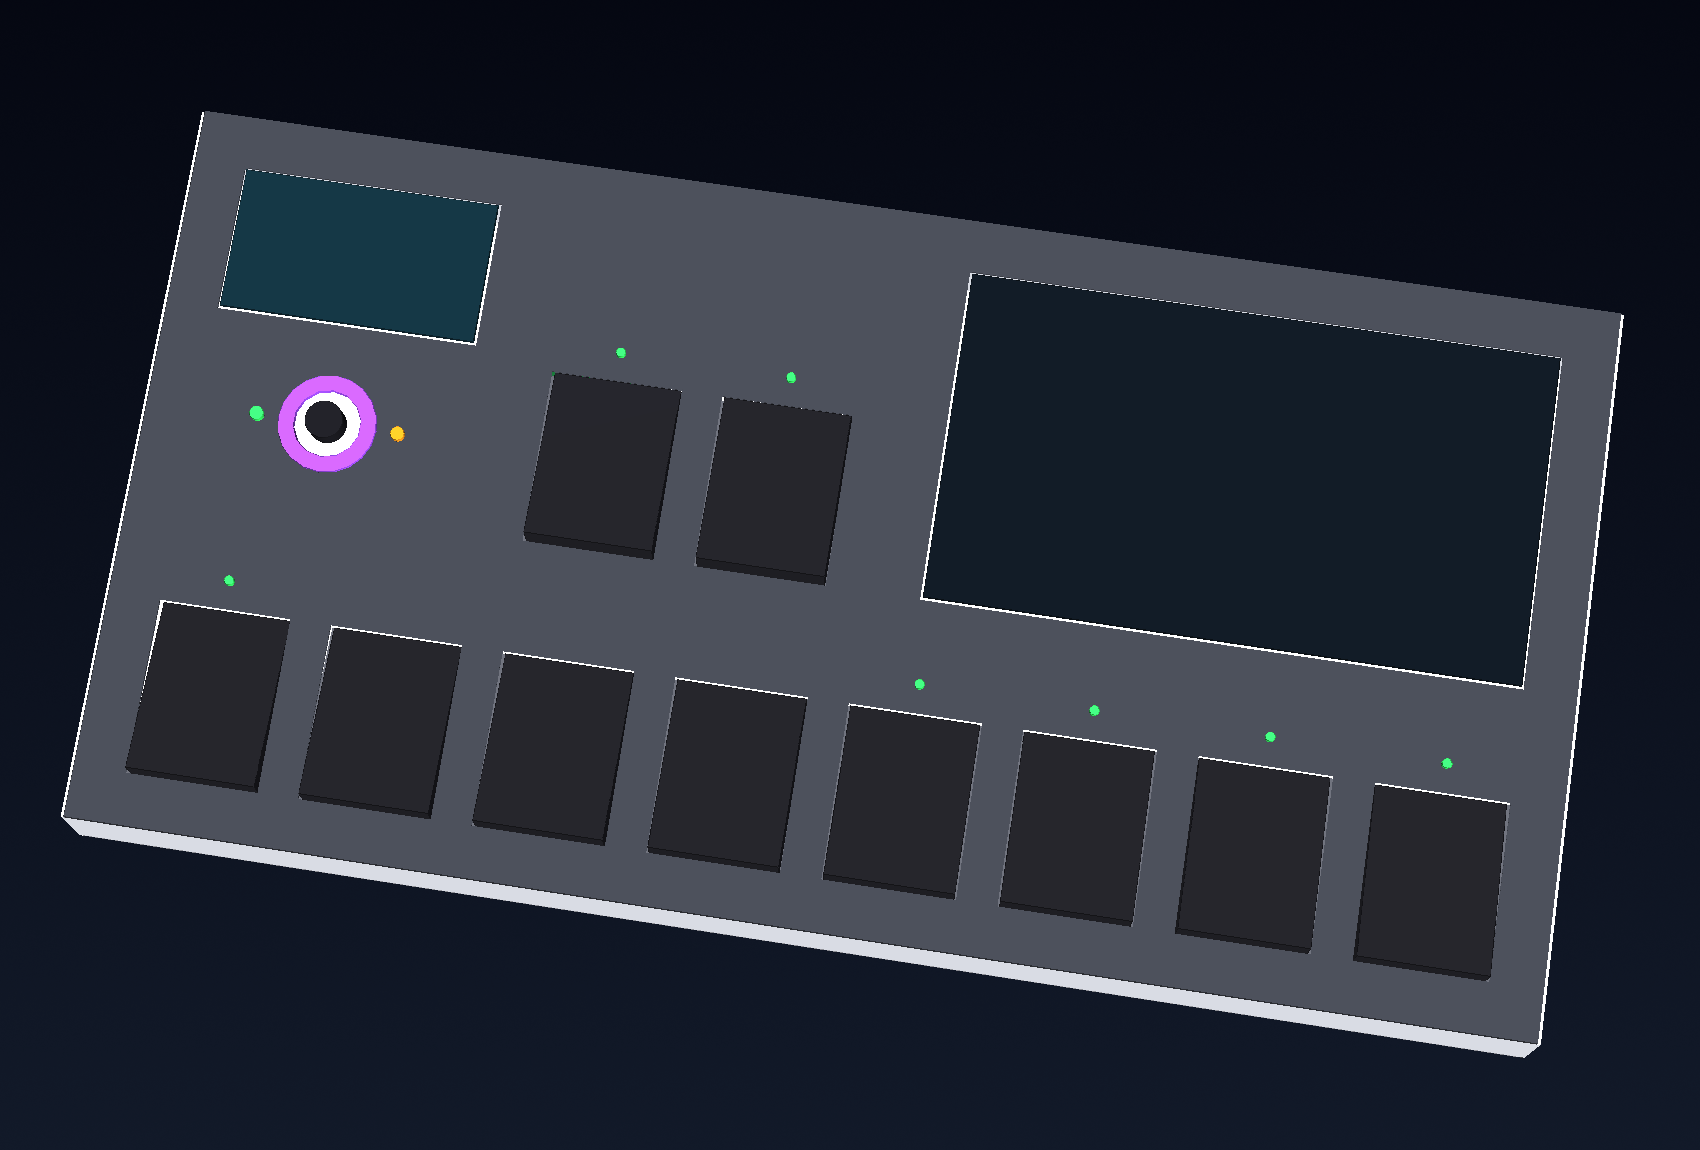
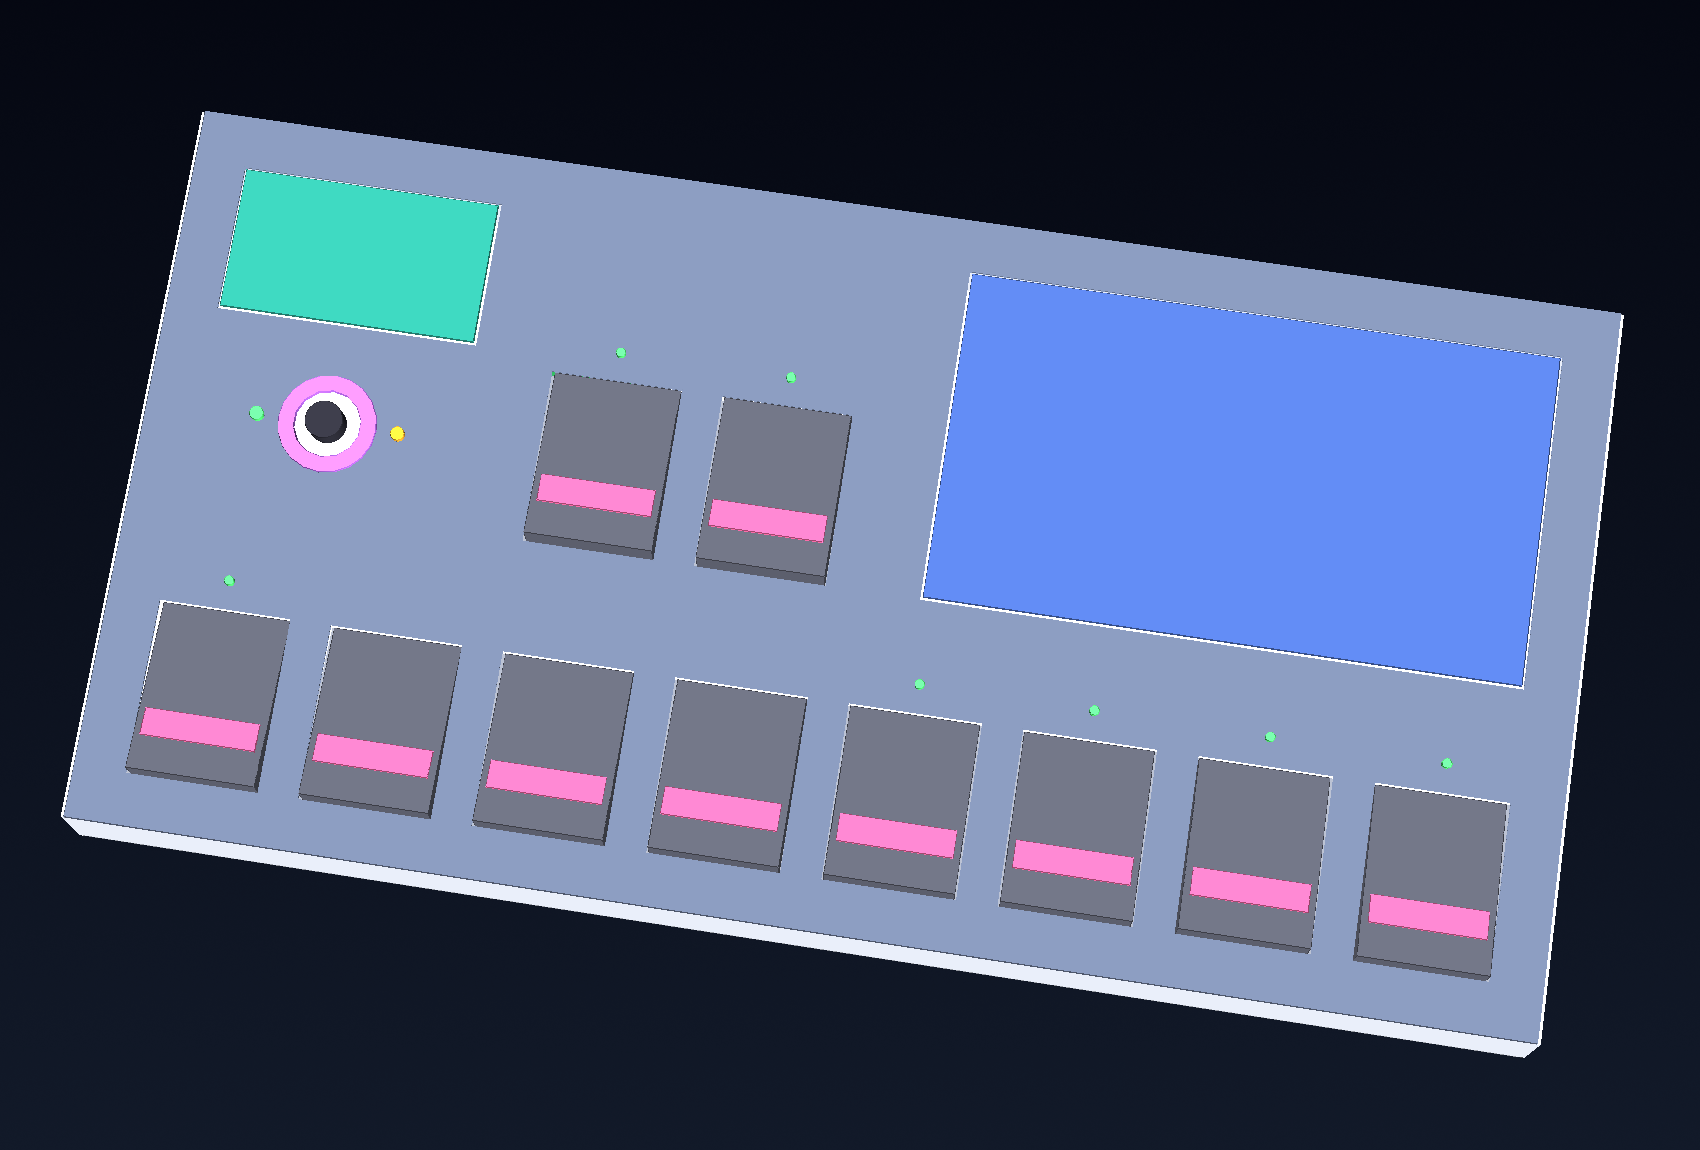
feat(hardware): brighter, colourful render palette
Lighter slate faceplate, charcoal pedals with a pink bumper strip (reference
accent), lit-looking teal 7" / blue 16" screens, brighter ring/LEDs/PCBs, and
silver aluminium — the previous near-black palette read too dark. Affects the
--render hero (out/vamp_render.png) and the glTF viewer export.

diff --git a/hardware/enclosure/vamp_enclosure.py b/hardware/enclosure/vamp_enclosure.py
@@ -732,7 +732,9 @@ def _render_parts(cq):
     fp_loc = (cq.Location(cq.Vector(0, T, H_FRONT))
               * cq.Location(cq.Vector(0,0,0), cq.Vector(0,1,0), -SLOPE_ANGLE))
     on_fp = lambda wp: wp.val().moved(fp_loc)
-    ALU=(0.80,0.81,0.84); FACE=(0.22,0.23,0.26); DARK=(0.11,0.11,0.13); PLAT=(0.33,0.34,0.37)
+    # brighter, more colourful palette (GLTF export darkens, so keep these light)
+    ALU=(0.86,0.88,0.92); FACE=(0.40,0.45,0.55); PED=(0.34,0.35,0.40)
+    PLAT=(0.55,0.57,0.62); STRIP=(0.92,0.40,0.62)
     P=[]; add=lambda s,c: P.append((s,c))
     add(cq.Workplane("XY").box(D-2*T, W-2*T, T, centered=False).translate((T,T,0)).val(), ALU)
     add(cq.Workplane("XY").box(T, W-2*T, H_FRONT, centered=False).translate((0,T,0)).val(), ALU)
@@ -744,17 +746,19 @@ def _render_parts(cq):
     cuts,_=faceplate_holes()
     for label,u,v in PEDALS:
         ph=platform_h(v); add(_platform_solid(cq,ph).val().moved(cq.Location(cq.Vector(v,u+T,0))), PLAT)
-        add(cq.Workplane("XY").box(ASP1_D,ASP1_W,ASP1_H,centered=(True,True,False)).translate((v,u+T,ph)).val(), DARK)
+        add(cq.Workplane("XY").box(ASP1_D,ASP1_W,ASP1_H,centered=(True,True,False)).translate((v,u+T,ph)).val(), PED)
+        # pink/magenta bumper strip across the foot-plate (reference accent)
+        add(cq.Workplane("XY").box(16,ASP1_W-8,2,centered=(True,True,False)).translate((v-ASP1_D*0.22,u+T,ph+ASP1_H)).val(), STRIP)
     for c in cuts:
         if c["kind"]=="rect" and c["ref"].startswith("SCREEN"):
-            vm=c["v"]+c["h"]/2; um=c["u"]+c["w"]/2; tint=(0.06,0.16,0.20) if "7" in c["ref"] else (0.05,0.08,0.11)
+            vm=c["v"]+c["h"]/2; um=c["u"]+c["w"]/2; tint=(0.18,0.62,0.55) if "7" in c["ref"] else (0.28,0.40,0.70)
             add(on_fp(cq.Workplane("XY").box(c["h"]-4,c["w"]-4,1.4).translate((vm,um,T+0.7))), tint)
-        if c["kind"]=="circle" and c["ref"]=="ENCODER": add(on_fp(cq.Workplane("XY").circle(11).extrude(13).translate((c["v"],c["u"],T))),(0.10,0.10,0.12))
-        if c["kind"]=="ring" and c["ref"]=="RING": add(on_fp(cq.Workplane("XY").circle(RING_OD/2).circle(RING_ID/2).extrude(2.2).translate((c["v"],c["u"],T))),(0.62,0.30,0.96))
+        if c["kind"]=="circle" and c["ref"]=="ENCODER": add(on_fp(cq.Workplane("XY").circle(11).extrude(13).translate((c["v"],c["u"],T))),(0.18,0.18,0.22))
+        if c["kind"]=="ring" and c["ref"]=="RING": add(on_fp(cq.Workplane("XY").circle(RING_OD/2).circle(RING_ID/2).extrude(2.2).translate((c["v"],c["u"],T))),(0.78,0.45,1.0))
         if c["kind"]=="circle" and (c["ref"].endswith("_LED") or c["ref"]=="PWR_LED"):
-            col=(0.95,0.6,0.12) if c["ref"]=="MODE_LED" else (0.20,0.92,0.38)
+            col=(1.0,0.72,0.20) if c["ref"]=="MODE_LED" else (0.35,1.0,0.50)
             add(on_fp(cq.Workplane("XY").circle(max(c["d"]/2,2.7)).extrude(3.6).translate((c["v"],c["u"],T))), col)
-    blk={"PI":(56,85,24,(0.10,0.45,0.22)),"BOARD":(75,110,16,(0.13,0.32,0.55))}
+    blk={"PI":(56,85,24,(0.20,0.70,0.38)),"BOARD":(75,110,16,(0.26,0.52,0.92))}
     for name,cx,cy,_ in board_mounts():
         bx,by,bz,col=blk[name]; add(cq.Workplane("XY").box(bx,by,bz,centered=(True,True,False)).translate((cy+T,cx+T,STANDOFF_H)).val(), col)
     return P